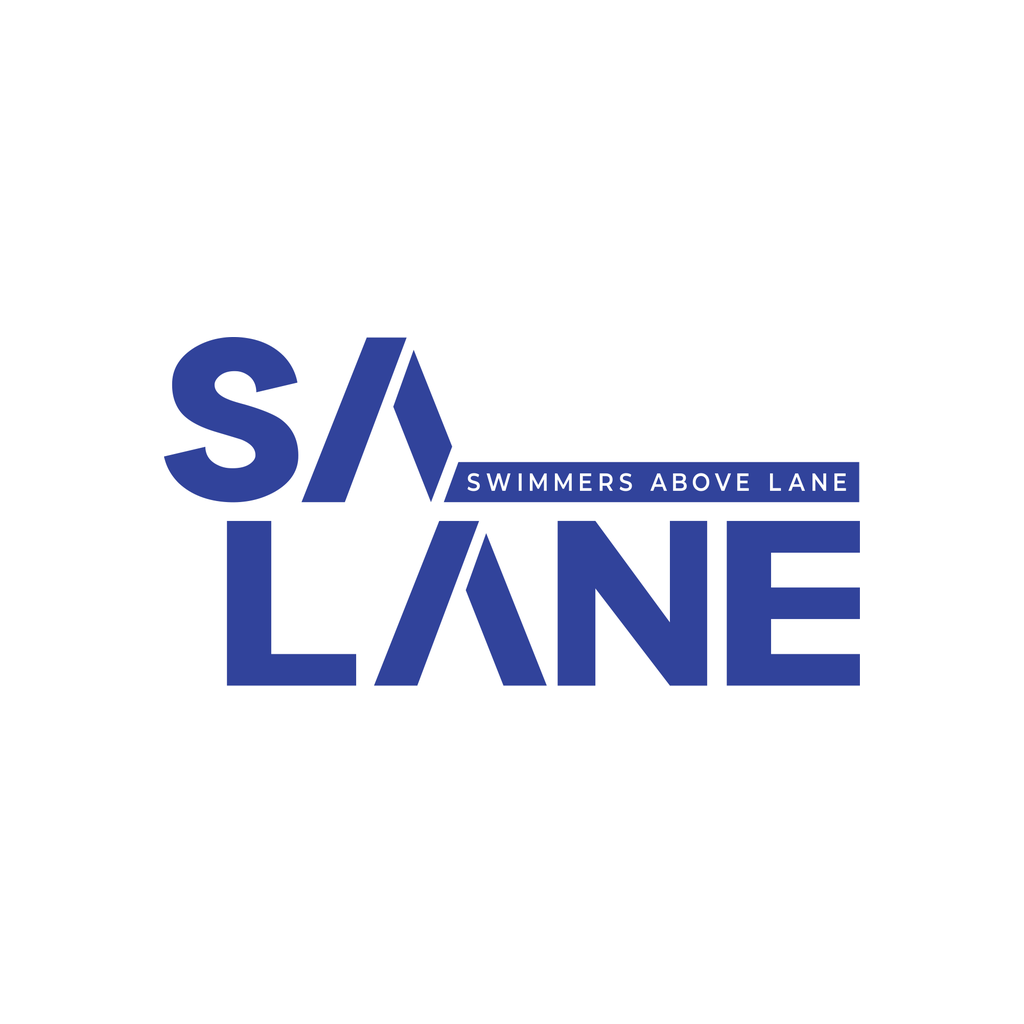
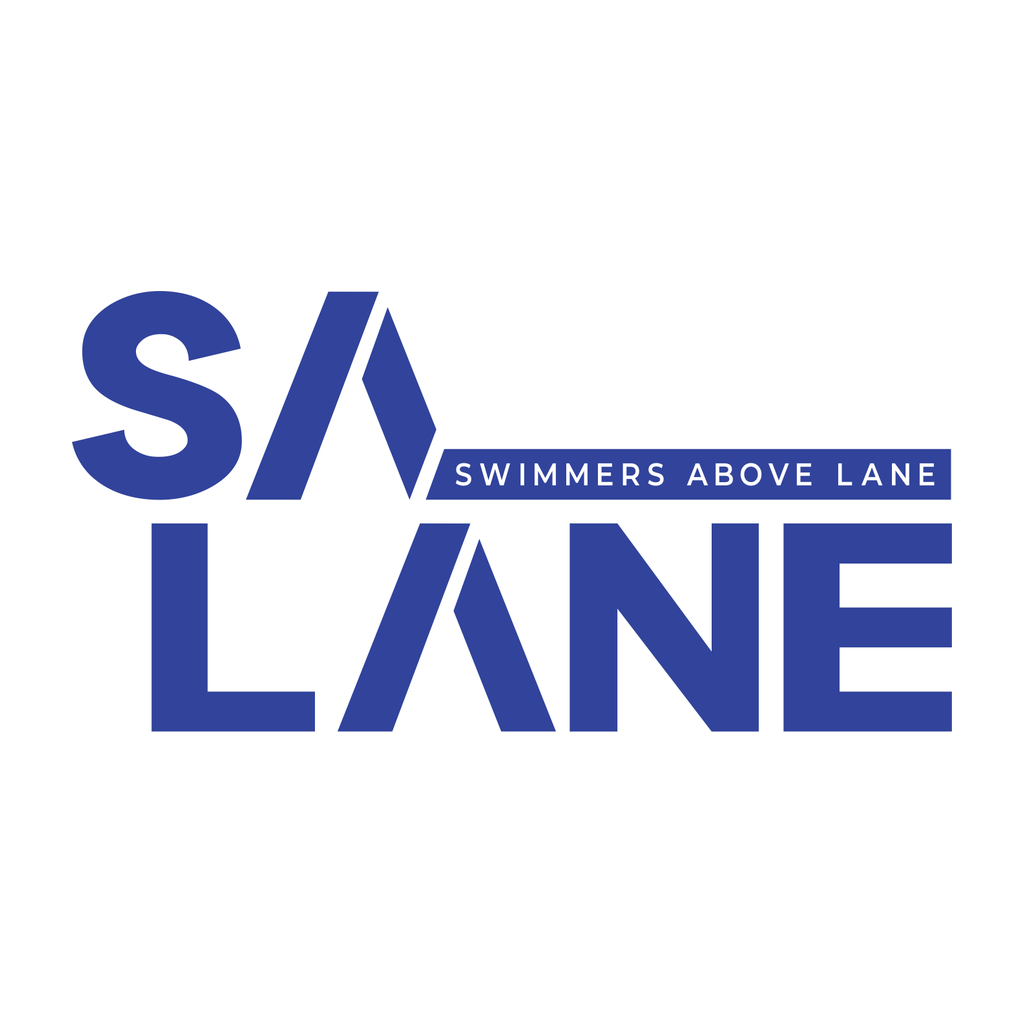
아이콘 좌우 여백 줄임(16% → 7%)

Changed region(s): [[0.0625, 0.2812, 0.9375, 0.7188]]

diff --git a/index.html b/index.html
@@ -16,8 +16,8 @@
 <meta name="apple-mobile-web-app-title" content="4LANE OPS">
 <meta name="apple-mobile-web-app-status-bar-style" content="default">
 <meta name="theme-color" content="#FFFFFF">
-<link rel="apple-touch-icon" href="apple-touch-icon.png">
-<link rel="icon" type="image/png" href="icon_salane_192.png">
+<link rel="apple-touch-icon" href="apple-touch-icon.png?v=2">
+<link rel="icon" type="image/png" href="icon_salane_192.png?v=2">
 <link rel="manifest" href="manifest.webmanifest">
 <style>
   :root { --navy: #14213D; --slate: #5B6B80; --line: #DCE3EB; --amber: #C98A2E; }
